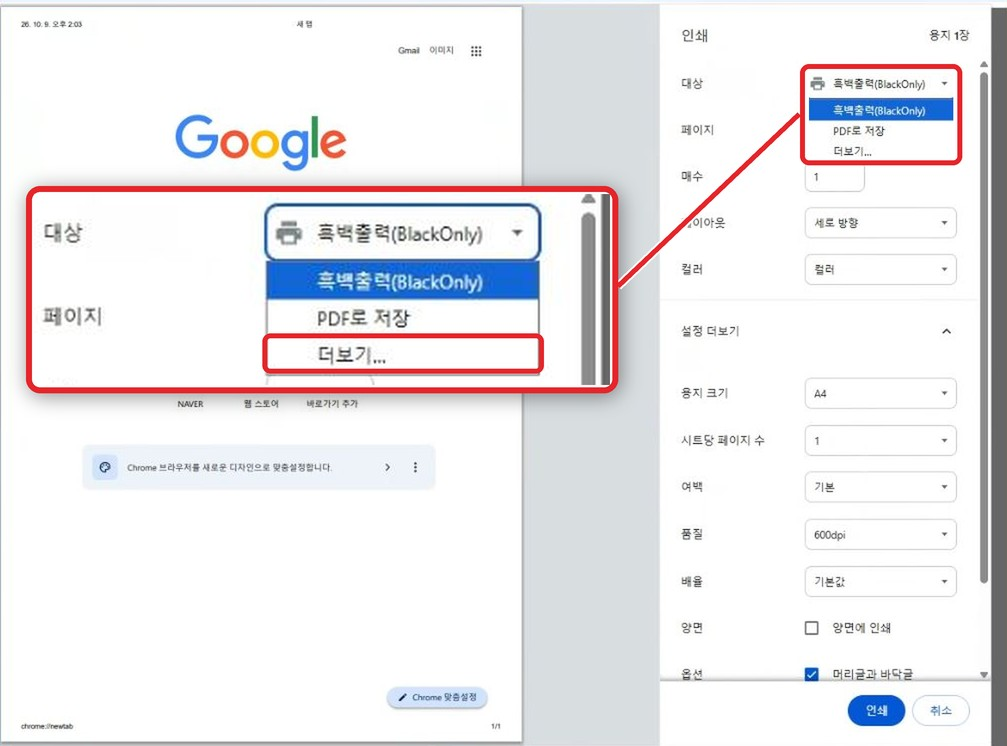
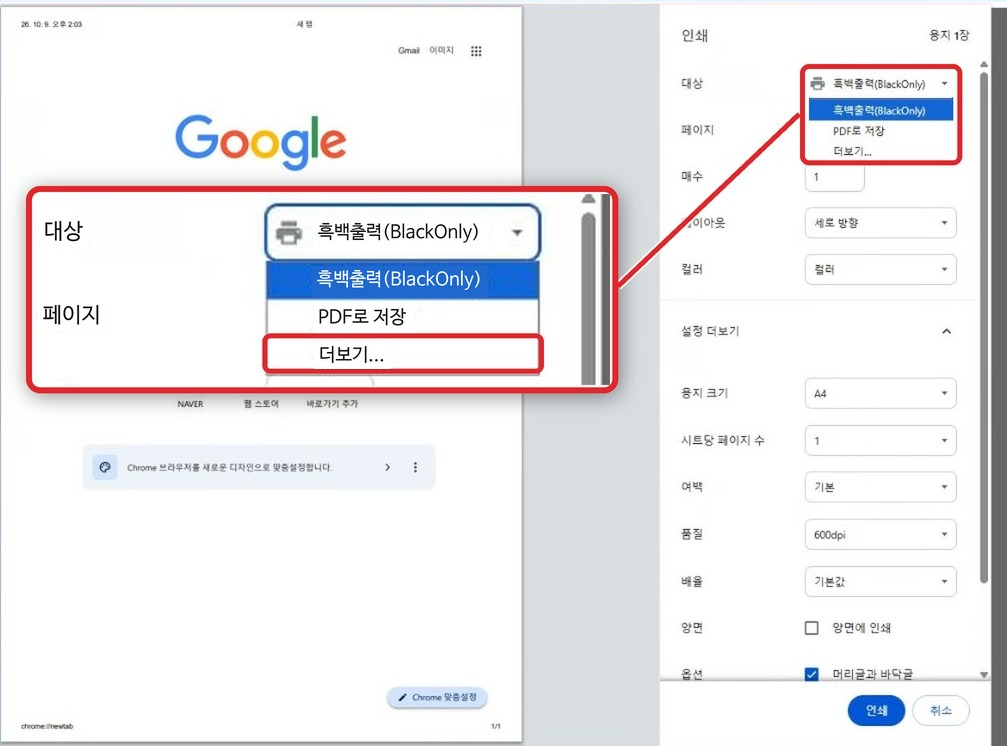
fix: 크롬 2단계 확대 그림의 글자(대상·흑백출력·페이지·PDF로 저장·더보기)를 선명하게 다시 씀

diff --git a/guide-print.html b/guide-print.html
@@ -635,7 +635,7 @@ footer{background:#111827;color:rgba(255,255,255,.55);padding:60px 6%}
       </div>
       <div class="step">
         <div class="step-no">2</div>
-        <div class="step-figs"><figure class="est-fig"><a href="images/print/chrome-lens-printer.jpg" target="_blank" rel="noopener"><img class="step-photo" src="images/print/chrome-lens-printer.jpg" alt="크롬 인쇄 화면 전체 사진. 대상을 누르면 기본으로 흑백출력이 나오고 아래에 더보기가 있는 모습을 돋보기처럼 확대해서 보여 주는 모습" loading="lazy"></a><figcaption class="est-cap">① <b>'대상'</b>을 누르면 기본으로 <b>흑백출력</b>이 나와요. 컬러출력이 없으면 <b>[더보기...]</b>를 누르세요 <span style="color:var(--text3);font-weight:600">(사진을 누르면 크게 열려요)</span></figcaption></figure><figure class="est-fig"><a href="images/print/chrome-lens-list.jpg?v=2" target="_blank" rel="noopener"><img class="step-photo" src="images/print/chrome-lens-list.jpg?v=2" alt="대상 선택 창에서 흑백출력(BlackOnly)과 컬러출력(ColorOnly)을 고르는 모습" loading="lazy"></a><figcaption class="est-cap">② 전체 프린터 목록에서 <b>흑백출력</b> 또는 <b>컬러출력</b>을 선택하세요 <span style="color:var(--text3);font-weight:600">(사진을 누르면 크게 열려요)</span></figcaption></figure><figure class="est-fig"><a href="images/print/chrome-lens-color.jpg?v=2" target="_blank" rel="noopener"><img class="step-photo" src="images/print/chrome-lens-color.jpg?v=2" alt="크롬 인쇄 화면 전체 사진. 컬러출력 프린터를 선택하고 컬러 칸에서 컬러를 선택하는 모습을 돋보기처럼 확대해서 보여 주는 모습" loading="lazy"></a><figcaption class="est-cap">③ <b>컬러출력</b>을 선택했다면 <b>'컬러'</b> 칸에서 <b>[컬러]</b>를 선택하고, 왼쪽 <b>미리보기가 컬러인지</b> 꼭 확인하세요 <span style="color:var(--text3);font-weight:600">(사진을 누르면 크게 열려요)</span></figcaption></figure></div>
+        <div class="step-figs"><figure class="est-fig"><a href="images/print/chrome-lens-printer.jpg?v=2" target="_blank" rel="noopener"><img class="step-photo" src="images/print/chrome-lens-printer.jpg?v=2" alt="크롬 인쇄 화면 전체 사진. 대상을 누르면 기본으로 흑백출력이 나오고 아래에 더보기가 있는 모습을 돋보기처럼 확대해서 보여 주는 모습" loading="lazy"></a><figcaption class="est-cap">① <b>'대상'</b>을 누르면 기본으로 <b>흑백출력</b>이 나와요. 컬러출력이 없으면 <b>[더보기...]</b>를 누르세요 <span style="color:var(--text3);font-weight:600">(사진을 누르면 크게 열려요)</span></figcaption></figure><figure class="est-fig"><a href="images/print/chrome-lens-list.jpg?v=2" target="_blank" rel="noopener"><img class="step-photo" src="images/print/chrome-lens-list.jpg?v=2" alt="대상 선택 창에서 흑백출력(BlackOnly)과 컬러출력(ColorOnly)을 고르는 모습" loading="lazy"></a><figcaption class="est-cap">② 전체 프린터 목록에서 <b>흑백출력</b> 또는 <b>컬러출력</b>을 선택하세요 <span style="color:var(--text3);font-weight:600">(사진을 누르면 크게 열려요)</span></figcaption></figure><figure class="est-fig"><a href="images/print/chrome-lens-color.jpg?v=2" target="_blank" rel="noopener"><img class="step-photo" src="images/print/chrome-lens-color.jpg?v=2" alt="크롬 인쇄 화면 전체 사진. 컬러출력 프린터를 선택하고 컬러 칸에서 컬러를 선택하는 모습을 돋보기처럼 확대해서 보여 주는 모습" loading="lazy"></a><figcaption class="est-cap">③ <b>컬러출력</b>을 선택했다면 <b>'컬러'</b> 칸에서 <b>[컬러]</b>를 선택하고, 왼쪽 <b>미리보기가 컬러인지</b> 꼭 확인하세요 <span style="color:var(--text3);font-weight:600">(사진을 누르면 크게 열려요)</span></figcaption></figure></div>
         <div class="est-txt">
           <div class="step-h">프린터(대상) 선택</div>
           <p class="step-p">오른쪽 설정 창에서 <b>'대상'</b>이 프린터를 고르는 곳이에요. 누르면 기본으로 <b>흑백출력</b> 프린터가 나와요.<br><b>컬러출력</b>이 안 보이면 아래의 <b>[더보기...]</b>를 누르세요. 전체 프린터 목록이 나와요.<br><b>흑백출력</b> 또는 <b>컬러출력</b> 프린터를 선택하세요.</p><div class="step-note warn">⚠ <b>컬러출력 프린터</b>를 선택했다면 <b>'컬러'</b> 칸(레이아웃 아래)에서 <b>[컬러]</b>를 선택하세요. 그리고 왼쪽 <b>미리보기가 컬러인지</b>, 인쇄할 <b>모든 페이지가 컬러로 나오는지</b> 반드시 확인하세요.</div>
